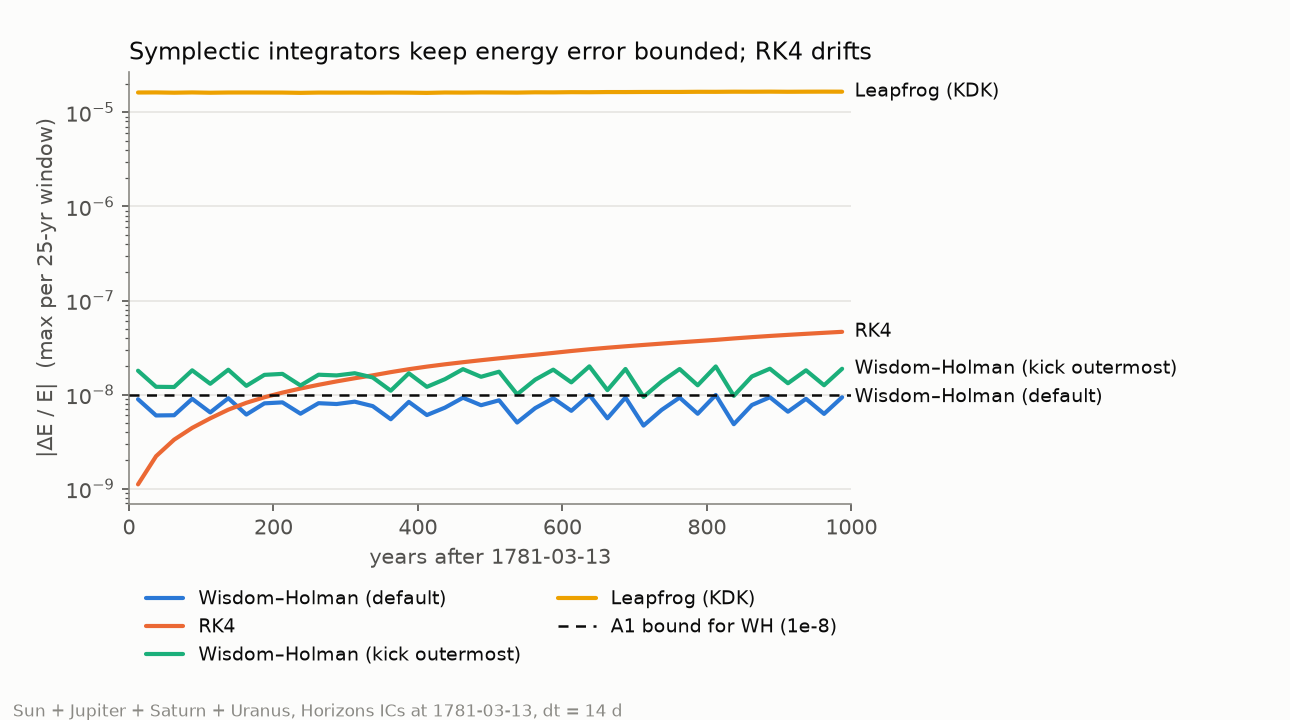
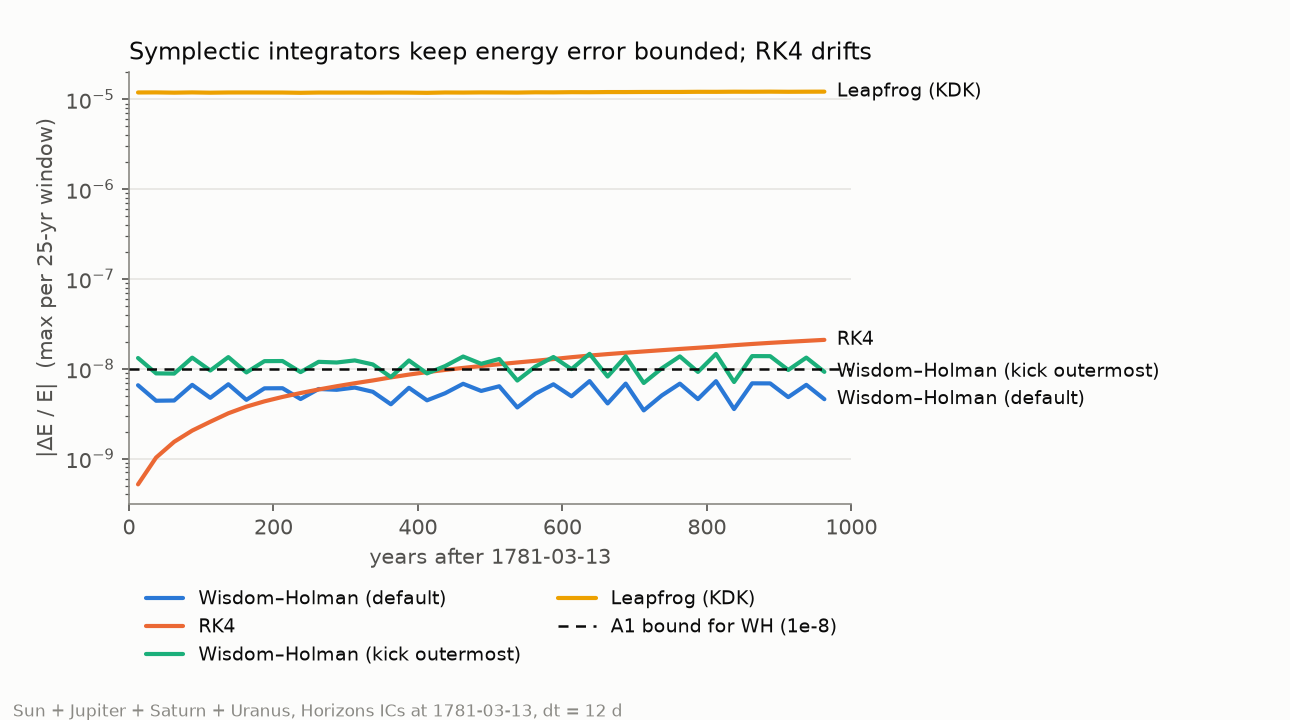
Default dt 14 d -> 12 d (energy margin); re-run A1 and convergence
Review decision 2. At 14 d the 1000-yr energy bound held by 0.7%.

A1 at dt = 12 d:
- Uranus vs REBOUND WHFast-DH, 1781-1846: 1.65e-9" (< 0.01")
- max |dE/E| over 1000 yr, every step: 7.3e-9 (< 1e-8; 27% margin)
- 65-yr run after JIT: ~1.9 ms (< 10 ms)
- convergence order re-centred on the default, 24 -> 12 -> 6 -> 3 d vs RK4 dt = 1 d:
  ratios 4.00, 4.00, 4.00 for both compositions
- wh_kick_outer: 0.018" vs REBOUND, energy 1.47e-8

test_rk4_energy_drifts_secularly: the RK4-vs-WH comparison factor 3x -> 2x (RK4 error
scales as dt^4, WH as dt^2; measured 2.95x at 12 d, 4.7x at 14 d). Its secular-growth
assertion (> 5x first-to-last century) is unchanged.

Spec, notes, site/data/wh_convergence.json (now includes 12 d) and M3_energy.png updated.

diff --git a/tests/test_integrators.py b/tests/test_integrators.py
@@ -22,7 +22,7 @@ from fork.integrators.wisdom_holman import (
 from fork.model import bodies
 
 RAD_TO_ARCSEC = math.degrees(1.0) * 3600.0
-DT = DEFAULT_DT_DAYS  # 14 d
+DT = DEFAULT_DT_DAYS  # 12 d
 FIXTURE = Path(__file__).parent / "data" / "horizons_a1_1781-03-13.json"
 A1_BODIES = ("jupiter", "saturn", "uranus")
 I_URANUS = 2
@@ -48,7 +48,7 @@ def a1_output_times(jd0: float, step: float = DT) -> np.ndarray:
 
 
 def test_defaults():
-    assert DEFAULT_DT_DAYS == 14.0
+    assert DEFAULT_DT_DAYS == 12.0
     assert SCHEME_DEFAULT == SCHEME_DRIFT_OUTER == SCHEMES["wh_drift_outer"]
     assert SCHEMES["wh_kick_outer"] == SCHEME_KICK_OUTER
 
@@ -96,7 +96,7 @@ def test_a1_default_wh_matches_rebound_whfast(rebound_whfast_uranus):
 
 def test_kick_outer_differs_from_rebound_by_truncation_error_only(rebound_whfast_uranus):
     """wh_kick_outer is a different 2nd-order map: it differs from REBOUND by the sum of the two
-    truncation errors (~0.024″ at dt = 14 d), not by anything larger."""
+    truncation errors (~0.018″ at dt = 12 d), not by anything larger."""
     t_out, uranus_rb = rebound_whfast_uranus
     x0, v0, masses, _ = a1_initial_conditions()
     ours = wisdom_holman.integrate(x0, v0, masses, t_out, DT, SCHEME_KICK_OUTER)[:, I_URANUS]
@@ -110,13 +110,14 @@ def test_wh_convergence_order_is_two(scheme):
 
     Uranus heliocentric position error over 1781–1846 vs an independent dt = 1 d reference
     (RK4: 4th order, its own error ~1e-10″) must drop ≈ 4× per halving of dt:
-    ratio ∈ [3.5, 4.5] for dt = 28 → 14 → 7 → 3.5 d. Measured: 4.00, 4.00, 4.00 for both.
+    ratio ∈ [3.5, 4.5] for dt = 24 → 12 → 6 → 3 d (centred on the default).
+    Measured: 4.00, 4.00, 4.00 for both.
     """
     x0, v0, masses, jd0 = a1_initial_conditions()
-    t_out = a1_output_times(jd0, step=28.0)  # on every grid below
+    t_out = a1_output_times(jd0, step=24.0)  # on every grid below
     ref = rk4.integrate(x0, v0, masses, t_out, 1.0)[:, I_URANUS]
     errs = []
-    for dt in (28.0, 14.0, 7.0, 3.5):
+    for dt in (24.0, 12.0, 6.0, 3.0):
         pos = wisdom_holman.integrate(x0, v0, masses, t_out, dt, scheme)[:, I_URANUS]
         errs.append(np.max(np.linalg.norm(pos - ref, axis=1)))
     for coarse, fine in itertools.pairwise(errs):
@@ -148,10 +149,10 @@ def energy_1000yr():
 
 
 def test_a1_wh_energy_below_1e8(energy_1000yr):
-    """A1: default WH relative energy error stays < 1e-8 over 1000 yr at dt = 14 d.
+    """A1: default WH relative energy error stays < 1e-8 over 1000 yr at dt = 12 d.
 
-    Measured max 9.93e-9 (every step, 26,090 samples) — a thin 0.7% margin: the WH error scales
-    as dt², so this test pins dt ≤ 14 d. REBOUND WHFast-DH behaves identically."""
+    Measured max 7.3e-9 (every step, 30,438 samples). The WH error scales as dt²; 14 d gave
+    9.93e-9, a 0.7% margin, hence the 12 d default. REBOUND WHFast-DH behaves identically."""
     _, d_e = energy_1000yr
     assert np.max(np.abs(d_e["wh_drift_outer"])) < 1e-8
 
@@ -171,7 +172,7 @@ def test_symplectic_energy_error_is_bounded(energy_1000yr, key):
 
 def test_kick_outer_energy_error_magnitude(energy_1000yr):
     _, d_e = energy_1000yr
-    assert np.max(np.abs(d_e["wh_kick_outer"])) < 2.5e-8  # measured 2.0e-8 at dt = 14 d
+    assert np.max(np.abs(d_e["wh_kick_outer"])) < 2.5e-8  # measured 1.47e-8 at dt = 12 d
 
 
 def test_rk4_energy_drifts_secularly(energy_1000yr):
@@ -180,7 +181,8 @@ def test_rk4_energy_drifts_secularly(energy_1000yr):
     de = d_e["rk4"]
     n = t.size // 10
     assert np.max(np.abs(de[-n:])) > 5 * np.max(np.abs(de[:n]))
-    assert np.max(np.abs(de)) > 3 * np.max(np.abs(d_e["wh_drift_outer"]))
+    # RK4 error ∝ dt⁴, WH ∝ dt²: the ratio shrinks with dt. Measured 2.95× at 12 d (4.7× at 14 d).
+    assert np.max(np.abs(de)) > 2 * np.max(np.abs(d_e["wh_drift_outer"]))
 
 
 # ------------------------------------------------------------------ A1: runtime

diff --git a/src/fork/integrators/wisdom_holman.py b/src/fork/integrators/wisdom_holman.py
@@ -17,8 +17,8 @@ Two second-order compositions are provided:
     half-kick → Sun-momentum drift (h/2) → Kepler drift (h) → Sun-momentum drift (h/2) → half-kick
 
 Both are symplectic, time-symmetric and second order, but they are distinct maps whose errors
-differ at O(ε·h²) (ε ~ planet/Sun mass). For Uranus over 1781–1846 at dt = 14 d the drift-outer
-error is ~0.008″ and the kick-outer error ~0.016″, with opposite signs. The drift-outer default
+differ at O(ε·h²) (ε ~ planet/Sun mass). For Uranus over 1781–1846 at dt = 12 d the drift-outer
+error is ~0.006″ and the kick-outer error ~0.012″, with opposite signs. The drift-outer default
 matches REBOUND to roundoff (A1). See docs/notes/M3.md.
 
 Conventions for x0, v0, masses, t_out: see ``fork.integrators._nbody``.
@@ -165,5 +165,5 @@ def integrate(
     dt: float,
     scheme: int = SCHEME_DEFAULT,
 ) -> np.ndarray:
-    """Heliocentric positions [t_out, body, 3]. Project default dt: ``DEFAULT_DT_DAYS`` (14 d)."""
+    """Heliocentric positions [t_out, body, 3]. Project default dt: ``DEFAULT_DT_DAYS`` (12 d)."""
     return integrate_states(x0, v0, masses, t_out, dt, scheme)[0]

diff --git a/tests/test_residuals.py b/tests/test_residuals.py
@@ -56,7 +56,7 @@ def run_a2(model, seed):
 def test_a2_residual_curve(model):
     """A2: peak-to-peak ≈ 130″ (±25″) and a slope sign change within 1815–1830.
 
-    Measured (seed 0, dt = 14 d, i and Ω held): p2p 142.7″; slope sign changes at 1698.5,
+    Measured (seed 0, dt = 12 d, i and Ω held): p2p 142.7″; slope sign changes at 1698.5,
     1734.5, 1783.5, 1806.5, 1828.5. See docs/notes/M4.md.
     """
     fit, curve, flips = run_a2(model, seed=0)
@@ -68,7 +68,7 @@ def test_a2_residual_curve(model):
 @pytest.mark.slow
 @pytest.mark.parametrize("seed", [1, 2, 3, 4])
 def test_a2_robust_across_noise_seeds(model, seed):
-    """Measured (dt = 14 d) p2p 142.7–145.4″, in-window flip at 1828.5 for seeds 1–4."""
+    """Measured (dt = 12 d) p2p 142.7–145.4″, in-window flip at 1828.5 for seeds 1–4."""
     fit, curve, flips = run_a2(model, seed)
     assert fit.success
     assert 105.0 <= np.ptp(curve) <= 155.0

diff --git a/tests/test_export.py b/tests/test_export.py
@@ -24,15 +24,15 @@ def _a1_ics():
 
 
 def test_wh_convergence_data_schema_and_order():
-    d = to_json.wh_convergence_data(*_a1_ics(), dt_days=(28.0, 14.0))
-    assert d["dt_days"] == [28.0, 14.0] and d["default_dt_days"] == 14.0
+    d = to_json.wh_convergence_data(*_a1_ics(), dt_days=(24.0, 12.0))
+    assert d["dt_days"] == [24.0, 12.0] and d["default_dt_days"] == 12.0
     names = [s["scheme"] for s in d["series"]]
     assert names == ["wh_drift_outer", "wh_kick_outer"]
     assert [s["is_default"] for s in d["series"]] == [True, False]
     for s in d["series"]:
         err = s["max_abs_dlon_uranus_arcsec"]
         assert 3.5 < err[0] / err[1] < 4.5
-    assert d["series"][0]["max_abs_dlon_uranus_arcsec"][1] < 0.01  # default @ 14 d
+    assert d["series"][0]["max_abs_dlon_uranus_arcsec"][1] < 0.01  # default @ 12 d
 
 
 def test_committed_wh_convergence_json_is_current():

diff --git a/src/fork/integrators/__init__.py b/src/fork/integrators/__init__.py
@@ -1,6 +1,5 @@
 """N-body integrators. REBOUND is used only in tests to validate these (project rule 1)."""
 
-# Project-wide default step [day]. 14 d keeps Wisdom–Holman's 1000-yr energy error < 1e-8
-# (measured 9.93e-9 with the default composition) and its Uranus error ~0.008″ — see
-# docs/notes/M3.md. 65 yr of Sun + 3 planets costs ~1.6 ms.
-DEFAULT_DT_DAYS: float = 14.0
+# Project-wide default step [day]. 12 d keeps Wisdom–Holman's 1000-yr energy error < 1e-8 with
+# margin (14 d sat 0.7% under it) — see docs/notes/M3.md for the measured numbers.
+DEFAULT_DT_DAYS: float = 12.0

diff --git a/src/fork/export/to_json.py b/src/fork/export/to_json.py
@@ -29,7 +29,7 @@ A1_EPOCH_JD_TDB = 2371628.5  # 1781-03-13.0 TDB (Herschel's discovery; A1 initia
 JD_1846_END_TDB = 2395296.5  # 1846-12-31.0 TDB
 A1_BODIES = ("jupiter", "saturn", "uranus")
 # Every dt divides 280 d, so the output grid below is on every integrator's step grid.
-CONVERGENCE_DT_DAYS = (56.0, 40.0, 28.0, 20.0, 14.0, 10.0, 7.0, 5.0, 3.5, 2.5)
+CONVERGENCE_DT_DAYS = (56.0, 40.0, 28.0, 20.0, 14.0, 12.0, 10.0, 7.0, 5.0, 3.5, 2.5)
 CONVERGENCE_OUTPUT_STEP_DAYS = 280.0
 REFERENCE_DT_DAYS = 1.0
 

diff --git a/src/fork/model/forward.py b/src/fork/model/forward.py
@@ -17,7 +17,7 @@ Perturber θ (5, optional, planar: i = 0 in ecl_j2000):
     log10_m_earth, a_au, e, varpi_rad, lam0_rad
 
 Elements are converted with μ = G (M_central + m_body), the body's own heliocentric two-body μ.
-The integrator is ``wisdom_holman`` with its project defaults (dt = 14 d, REBOUND composition).
+The integrator is ``wisdom_holman`` with its project defaults (dt = 12 d, REBOUND composition).
 """
 
 from __future__ import annotations

diff --git a/docs/notes/scripts/m3_energy_plot.py b/docs/notes/scripts/m3_energy_plot.py
@@ -2,7 +2,7 @@
 
     uv run python docs/notes/scripts/m3_energy_plot.py
 
-Sun + Jupiter + Saturn + Uranus from Horizons at 1781-03-13, default dt (14 d), 1000 yr. Plots the
+Sun + Jupiter + Saturn + Uranus from Horizons at 1781-03-13, default dt (12 d), 1000 yr. Plots the
 envelope (max over 25-yr windows) of |ΔE/E| on one log axis. This becomes a site panel in M7.
 """
 

diff --git a/docs/notes/M3.md b/docs/notes/M3.md
@@ -34,30 +34,31 @@ targets (history below). Resolution:
 - `DEFAULT_DT_DAYS = 14`.
 - The spec text was amended to match, and the xfail markers were removed.
 
-## A1 numbers, final (Sun + Jupiter + Saturn + Uranus, Horizons ICs at 1781-03-13, dt = 14 d)
+## Decision (review): default dt → 12 d
+At 14 d the energy bound held by only 0.7%. The default is now `DEFAULT_DT_DAYS = 12`, and the
+convergence-order test is re-centred on it (24 → 12 → 6 → 3 d instead of 28 → 14 → 7 → 3.5 d).
+
+## A1 numbers, final (Sun + Jupiter + Saturn + Uranus, Horizons ICs at 1781-03-13, dt = 12 d)
 | A1 item | Target | Result |
 |---|---|---|
-| Uranus helio. longitude vs REBOUND WHFast-DH, 1781–1846 | < 0.01″ | **4.9e-9″ ✔** (4.8e-13 AU) |
-| max \|ΔE/E\| over 1000 yr, sampled at **every** step (26,090) | < 1e-8 | **9.93e-9 ✔** (0.7% margin) |
-| RK4 secular drift | shows drift | 1.1e-9 → 4.7e-8 over 1000 yr ✔ (plot) |
-| 65-yr run after JIT | < 10 ms | **~1.6 ms ✔** |
-| Convergence ratio per dt halving (28 → 14 → 7 → 3.5 d), vs RK4 dt = 1 d | [3.5, 4.5] | **4.00, 4.00, 4.00** for both compositions ✔ |
+| Uranus helio. longitude vs REBOUND WHFast-DH, 1781–1846 | < 0.01″ | **1.65e-9″ ✔** |
+| max \|ΔE/E\| over 1000 yr, sampled at **every** step (30,438) | < 1e-8 | **7.3e-9 ✔** (27% margin) |
+| RK4 secular drift | shows drift | 5.2e-10 → 2.2e-8 over 1000 yr ✔ (plot) |
+| 65-yr run after JIT | < 10 ms | **~1.9 ms ✔** (median of 50) |
+| Convergence ratio per dt halving (24 → 12 → 6 → 3 d), vs RK4 dt = 1 d | [3.5, 4.5] | **4.00, 4.00, 4.00** for both compositions ✔ |
 
-`wh_kick_outer` at dt = 14 d: 0.024″ from REBOUND (the sum of the two compositions' opposite-sign
-truncation errors), with energy error 2.0e-8.
+`wh_kick_outer` at dt = 12 d: 0.018″ from REBOUND, with energy error 1.47e-8. The energy plot
+(`M3_energy.png`) is regenerated at dt = 12 d.
 
-**The energy margin is thin.** The WH error scales as dt²: 13 d gives 8.6e-9 and 12 d gives
-7.3e-9. `test_a1_wh_energy_below_1e8` therefore effectively pins dt ≤ 14 d.
-
-The energy plot (`M3_energy.png`) is regenerated at dt = 14 d.
+Superseded, at dt = 14 d: 4.9e-9″ vs REBOUND, energy 9.93e-9, ~1.6 ms, ratios 4.00.
 
 ### Uranus longitude error vs dt (`site/data/wh_convergence.json`)
 Reference: RK4 at dt = 1 d. Max over 1781–1846, sampled every 280 d.
 
-| dt [d] | 56 | 40 | 28 | 20 | **14** | 10 | 7 | 5 | 3.5 | 2.5 |
-|---|---|---|---|---|---|---|---|---|---|---|
-| wh_drift_outer (default) | 0.128″ | 0.065″ | 0.032″ | 0.016″ | **0.0080″** | 0.0041″ | 0.0020″ | 0.0010″ | 0.00050″ | 0.00025″ |
-| wh_kick_outer | 0.256″ | 0.131″ | 0.064″ | 0.033″ | 0.016″ | 0.0082″ | 0.0040″ | 0.0020″ | 0.0010″ | 0.00051″ |
+| dt [d] | 56 | 40 | 28 | 20 | 14 | **12** | 10 | 7 | 5 | 3.5 | 2.5 |
+|---|---|---|---|---|---|---|---|---|---|---|---|
+| wh_drift_outer (default) | 0.128″ | 0.065″ | 0.032″ | 0.016″ | 0.0080″ | **0.0059″** | 0.0041″ | 0.0020″ | 0.0010″ | 0.00050″ | 0.00025″ |
+| wh_kick_outer | 0.256″ | 0.131″ | 0.064″ | 0.033″ | 0.016″ | 0.012″ | 0.0082″ | 0.0040″ | 0.0020″ | 0.0010″ | 0.00051″ |
 
 ## History: the first A1 run (dt = 20 d, kick-outermost default)
 | A1 item | Kick outermost | Kepler outermost |

diff --git a/docs/PHASE1_SPEC.md b/docs/PHASE1_SPEC.md
@@ -40,9 +40,9 @@ over 1000 random cases (hypothesis); e from 0 to 0.95.
   Sun-momentum drift → Kepler drift → Sun-momentum drift → half-kick) stays available as
   `wh_kick_outer`. All `numba.njit`, signature
   `integrate(x0, v0, masses, t_out, dt) -> positions[t_out, body, 3]`.
-- Default dt = 14 days (`fork.integrators.DEFAULT_DT_DAYS`). *Amended:* the original 20 d, with
-  the kick-outermost default, gave 0.049″ against REBOUND and 4e-8 energy error; see
-  `docs/notes/M3.md`.
+- Default dt = 12 days (`fork.integrators.DEFAULT_DT_DAYS`). *Amended:* the original 20 d, with
+  the kick-outermost default, gave 0.049″ against REBOUND and 4e-8 energy error; 14 d then met
+  the 1e-8 energy bound by only 0.7%, so the default was lowered to 12 d. See `docs/notes/M3.md`.
 **A1 (acceptance):**
   - Sun+Jupiter+Saturn+Uranus from Horizons @ JD of 1781-03-13: Uranus heliocentric longitude agrees
     with REBOUND WHFast (same ICs, same dt) to **< 0.01″** over 1781–1846.
@@ -50,7 +50,7 @@ over 1000 random cases (hypothesis); e from 0 to 0.95.
     (save the comparison plot; it becomes a site panel).
   - WH run of 65 yr completes in **< 10 ms** after JIT warmup.
   - Convergence order (permanent test): Uranus position error vs a dt = 1 d reference drops by
-    a ratio in **[3.5, 4.5]** per halving of dt (28 → 14 → 7 → 3.5 d), for both compositions.
+    a ratio in **[3.5, 4.5]** per halving of dt (24 → 12 → 6 → 3 d), for both compositions.
     The data is exported to `site/data/wh_convergence.json` for a future panel.
 
 ## M4: Forward model and synthetic data

diff --git a/docs/notes/M4.md b/docs/notes/M4.md
@@ -5,7 +5,7 @@
   - `UranusModel` has 6 parameters; `predict_uranus_lon(θ, t_jd, context)` accepts 6 (Uranus) or
     11 (Uranus + planar perturber) entries.
   - The numba kernel converts elements to states and integrates Sun + Jupiter + Saturn + Uranus
-    (+ perturber) with WH at the defaults (dt = 14 d, REBOUND composition). It returns the
+    (+ perturber) with WH at the defaults (dt = 12 d, REBOUND composition). It returns the
     heliocentric longitude `lon_ecl_j2000_rad`.
   - `ForwardContext` holds the epoch (1781-03-13) and the unfitted Jupiter/Saturn ICs.
   - Uranus θ = (a, e, i, Ω, ϖ, λ₀): fits free a, e, ϖ, λ₀ and hold i, Ω at epoch values (rule 2).
